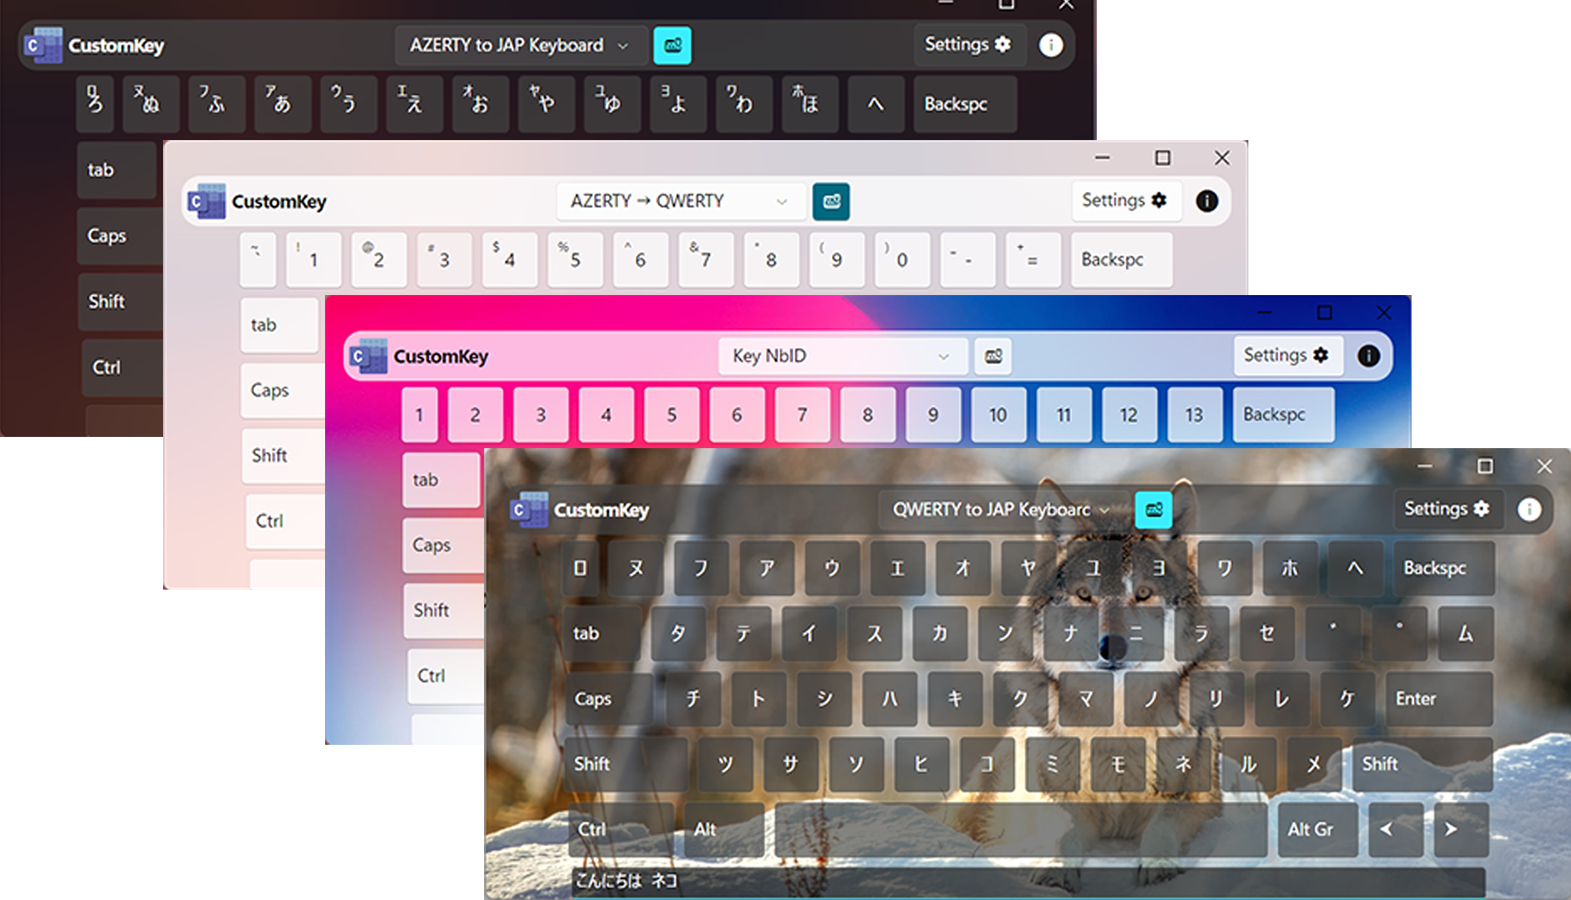
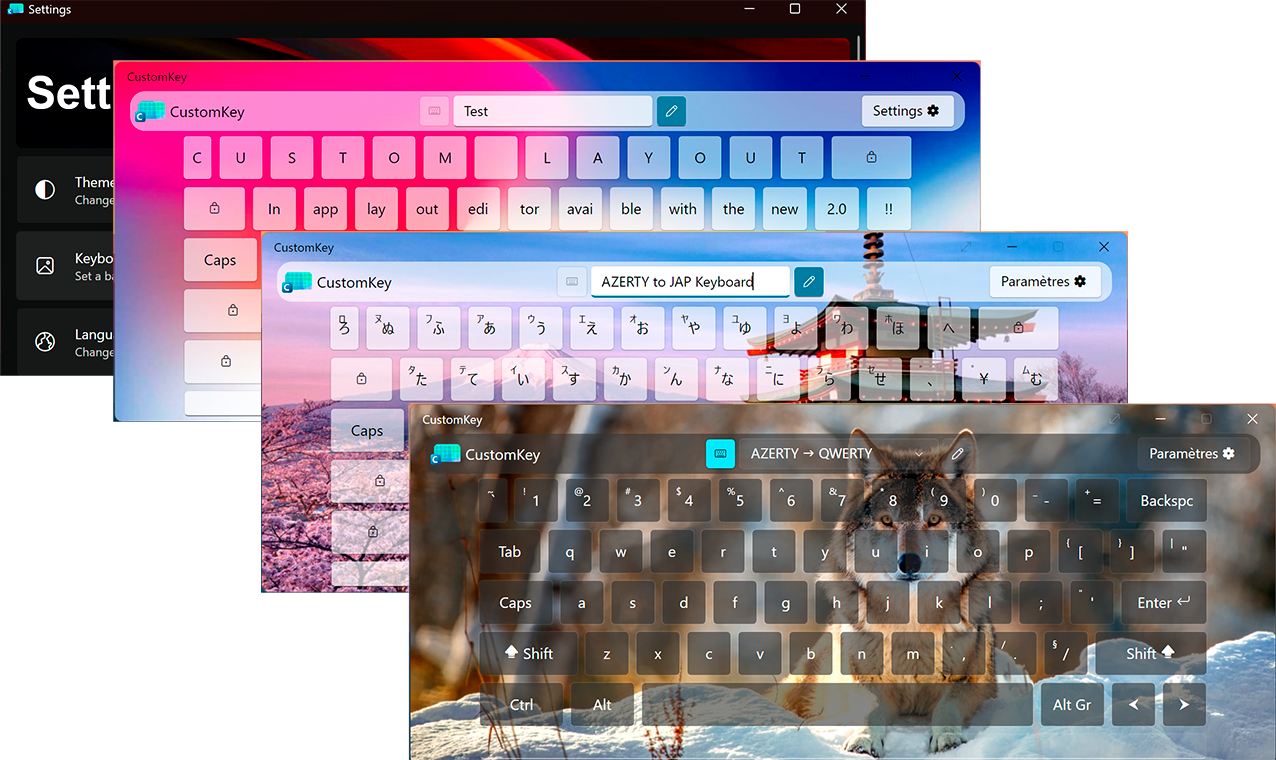
[2.0.0] In App editor is now fully functionnal + various bugfixes and improvements

diff --git a/src/CustomKey/Views/MainWindow.axaml.cs b/src/CustomKey/Views/MainWindow.axaml.cs
@@ -6,8 +6,11 @@ using Avalonia.Media.Imaging;
 using Avalonia.Platform;
 using System;
 using System.IO;
+using Avalonia;
+using Avalonia.Layout;
 using CustomKey.Common;
 using CustomKey.ViewModels;
+using FluentAvalonia.UI.Controls;
 
 namespace CustomKey.Views
 {
@@ -15,6 +18,7 @@ namespace CustomKey.Views
     {
         public static bool IsCapsLockActive;
         public static bool IsShiftPressed;
+        private bool _isCtrlAltPressed;
         private MainWindowViewModel _viewModel;
 
         public MainWindow()
@@ -34,7 +38,7 @@ namespace CustomKey.Views
             LoadBackgroundSettings();
             
             // Add click event to most of all Keyboard Buttons
-            for (int i = 1; i < 47; i++)
+            for (int i = 1; i <= 47; i++)
             {
                 var keyName = $"Key{i}";
                 var btn = this.FindControl<Button>(keyName);
@@ -74,8 +78,9 @@ namespace CustomKey.Views
 
             foreach (var (btn, normalText) in keys) btn.Content = _viewModel.IsEditMode ? "\uE72E" : normalText;
             
-            LayoutNameEditor.IsVisible = _viewModel.IsEditMode;
+            LayoutEditor.IsVisible = _viewModel.IsEditMode;
             LayoutsList.IsVisible = !_viewModel.IsEditMode;
+            InputState.IsEnabled = !_viewModel.IsEditMode;
         }
 
         public void CapsDown()
@@ -122,6 +127,11 @@ namespace CustomKey.Views
                     OutputBox.CaretIndex += 1;
                     break;
                 default:
+                    if (_viewModel.IsEditMode)
+                    {
+                        OpenEditDialog(btnName);
+                        break;
+                    }
                     var charToInsert = LayoutManager.GetChar(btnName);
                     InsertText(charToInsert);
                     break;
@@ -193,9 +203,9 @@ namespace CustomKey.Views
                      e.Key == Key.LeftAlt || e.Key == Key.RightAlt ||
                      e.Key == Key.LWin || e.Key == Key.RWin)
             {
-                App.IsCtrlAltPressed = true;
+                _isCtrlAltPressed = true;
             }
-            else if (Utility.IsInputEnabled && !App.IsCtrlAltPressed)
+            else if (Utility.IsInputEnabled && !_isCtrlAltPressed)
             {
                 string? vcKey = LayoutManager.ConvertToVcKey(e.Key.ToString());
 
@@ -236,7 +246,58 @@ namespace CustomKey.Views
                      e.Key == Key.LeftAlt || e.Key == Key.RightAlt ||
                      e.Key == Key.LWin || e.Key == Key.RWin)
             {
-                App.IsCtrlAltPressed = false;
+                _isCtrlAltPressed = false;
+            }
+        }
+        
+        private async void OpenEditDialog(string keyName)
+        {
+            var (currentChar, currentShift, currentId) = LayoutManager.KeyVal[keyName];
+
+            Button btnId = new Button { Content = currentId };
+            btnId.Click += (_, _) =>
+            {
+                this.KeyDown += OnDetectKey;
+                void OnDetectKey(object? s, KeyEventArgs e)
+                {
+                    this.KeyDown -= OnDetectKey;
+                    var vc = LayoutManager.ConvertToVcKey(e.Key.ToString());
+                    if (vc != null) btnId.Content = vc;
+                }
+            };
+
+            TextBox tbVal = new TextBox { Text = currentChar, Height = 32, TextWrapping = TextWrapping.NoWrap }; 
+            TextBox tbShift = new TextBox { Text = currentShift, Height = 32, TextWrapping = TextWrapping.NoWrap };
+            TextBlock lblId = new TextBlock { Text = "Key ID" };
+            TextBlock lblVal = new TextBlock { Text = "Value" };
+            TextBlock lblShift = new TextBlock { Text = "Caps Lock Value" };
+            CheckBox cbUpShift = new CheckBox { Content = $"Uppercase default when Caps Lock", IsChecked = currentShift == null };
+
+            Grid grid = new Grid
+            {
+                RowDefinitions = { new RowDefinition(GridLength.Auto), new RowDefinition(GridLength.Auto), new RowDefinition(GridLength.Auto) },
+                ColumnDefinitions = { new ColumnDefinition(GridLength.Star), new ColumnDefinition(GridLength.Star), new ColumnDefinition(GridLength.Star) },
+                HorizontalAlignment = HorizontalAlignment.Center, ColumnSpacing = 8
+            };
+
+            Grid.SetRow(lblId, 0); Grid.SetColumn(lblId, 0);
+            Grid.SetRow(lblVal, 0); Grid.SetColumn(lblVal, 1);
+            Grid.SetRow(lblShift, 0); Grid.SetColumn(lblShift, 2);
+            Grid.SetRow(btnId, 1); Grid.SetColumn(btnId, 0);
+            Grid.SetRow(tbVal, 1); Grid.SetColumn(tbVal, 1);
+            Grid.SetRow(tbShift, 1); Grid.SetColumn(tbShift, 2);
+            Grid.SetRow(cbUpShift, 2); Grid.SetColumn(cbUpShift, 2);
+
+            grid.Children.Add(lblId); grid.Children.Add(lblVal); grid.Children.Add(lblShift);
+            grid.Children.Add(btnId); grid.Children.Add(tbVal); grid.Children.Add(tbShift);
+            grid.Children.Add(cbUpShift);
+
+            FAContentDialog dialog = new FAContentDialog { Content = grid, PrimaryButtonText = "Save", CloseButtonText = "Cancel" };
+
+            if (await dialog.ShowAsync() == FAContentDialogResult.Primary)
+            {
+                LayoutManager.UpdateKey(keyName, tbVal.Text, cbUpShift.IsChecked == true ? null : tbShift.Text, btnId.Content?.ToString() ?? "");
+                _viewModel.NotifyKeyChanged();
             }
         }
     }

diff --git a/src/CustomKey/Common/LayoutManager.cs b/src/CustomKey/Common/LayoutManager.cs
@@ -10,10 +10,9 @@ namespace CustomKey.Common
         public static string? CurrentLayoutJson { get; private set; }
         private static readonly Dictionary<string, string> LayoutFileMap = new();
         
-        // Dictionnaire statique contenant les données du layout
+        // Dictionary with all current layout data
         public static Dictionary<string, (string keyChar, string shiftChar, string keyId)> KeyVal { get; private set; } = new();
         
-        // Retourne une liste des noms des layouts (propriété "Name" dans les fichiers JSON)
         public static Dictionary<string, string> GetLayouts()
         {
             string keyDir = Path.Combine(AppContext.BaseDirectory, "key");
@@ -76,10 +75,10 @@ namespace CustomKey.Common
                     rawDict?.TryGetValue($"Shift{i}_Char", out shiftVal);
                     rawDict?.TryGetValue($"{keyName}_ID", out idVal);
 
-                    // If no value : set to ASCII code "\r", which result to do a toUpperCase of the charVal when shift/caps is on
-                    // For exemple if you set Key1_Char to "m" and don't set Shift1_Char in the json when shift is enable it will show "M" and not "\r" or ""
+                    // If no value: shiftChar is null, which results in doing an uppercase of the charVal when shift/caps is on
+                    // For exemple if you set Key1_Char to "m" and don't set Shift1_Char in the json when shift is enable it will show "M"
                     // In order to don't do a ToUpperCase you should set a value to "" for Shift_Char in json layout
-                    KeyVal[keyName] = (charVal ?? "", shiftVal ?? "\r", idVal ?? "");
+                    KeyVal[keyName] = (charVal ?? "", shiftVal, idVal ?? "")!;
                 }
             }
             catch (Exception e)
@@ -116,7 +115,7 @@ namespace CustomKey.Common
 
             if (Utility.IsShift)
             {
-                if (keyInfo.shiftChar == "\r") return keyInfo.keyChar.ToUpper();
+                if (keyInfo.shiftChar == null) return keyInfo.keyChar.ToUpper();
                 return keyInfo.shiftChar;
             }
 
@@ -163,7 +162,7 @@ namespace CustomKey.Common
             LayoutFileMap[newName] = CurrentLayoutJson;
         }
         
-        public static void UpdateKey(string keyName, string keyChar, string shiftChar, string keyId)
+        public static void UpdateKey(string keyName, string keyChar, string? shiftChar, string keyId)
         {
             KeyVal[keyName] = (keyChar, shiftChar, keyId);
         }
@@ -187,7 +186,13 @@ namespace CustomKey.Common
                 }
             }
             
-            for (int i = 1; i <= 47; i++) dict[$"Shift{i}_Char"] = KeyVal.TryGetValue($"Key{i}", out var data) ? data.shiftChar : "";
+            for (int i = 1; i <= 47; i++)
+            {
+                if (KeyVal.TryGetValue($"Key{i}", out var data))
+                {
+                    if (data.shiftChar != null) dict[$"Shift{i}_Char"] = data.shiftChar;
+                }
+            }
 
             string filepath = Path.Combine(Path.Combine(AppContext.BaseDirectory, "key"), CurrentLayoutJson);
             var json = JsonSerializer.Serialize(dict, new JsonSerializerOptions { WriteIndented = true });

diff --git a/src/CustomKey/App.axaml.cs b/src/CustomKey/App.axaml.cs
@@ -15,11 +15,11 @@ namespace CustomKey
     public partial class App : Application
     {
         // Windows and macOS - Not use on Linux
-        private IEventSimulator _outputInjector = new EventSimulator();
-        private SimpleGlobalHook _hook = new();
+        private readonly EventSimulator _outputInjector = new();
+        private readonly SimpleGlobalHook _hook = new();
         // =================================
         private MainWindow? _mainWindow;
-        public static bool IsCtrlAltPressed;
+        private bool _isCtrlAltPressed;
 
         public override void Initialize()
         {
@@ -79,9 +79,9 @@ namespace CustomKey
                      e.Data.KeyCode == KeyCode.VcLeftAlt || e.Data.KeyCode == KeyCode.VcRightAlt ||
                      e.Data.KeyCode == KeyCode.VcLeftMeta || e.Data.KeyCode == KeyCode.VcRightMeta)
             {
-                IsCtrlAltPressed = true;
+                _isCtrlAltPressed = true;
             }
-            else if (Utility.IsInputEnabled && !IsCtrlAltPressed)
+            else if (Utility.IsInputEnabled && !_isCtrlAltPressed)
             {
                 foreach (var entry in LayoutManager.KeyVal)
                 {
@@ -117,7 +117,7 @@ namespace CustomKey
                      e.Data.KeyCode == KeyCode.VcLeftAlt || e.Data.KeyCode == KeyCode.VcRightAlt ||
                      e.Data.KeyCode == KeyCode.VcLeftMeta || e.Data.KeyCode == KeyCode.VcRightMeta)
             {
-                IsCtrlAltPressed = false;
+                _isCtrlAltPressed = false;
             }
         }
     }

diff --git a/src/CustomKey/Common/Utility.cs b/src/CustomKey/Common/Utility.cs
@@ -7,7 +7,6 @@ namespace CustomKey.Common
     public static class Utility
     {
         public static event Action? GlobalRefresh, EditModeChanged;
-        public static bool IsShiftPending;
         public static bool IsInputEnabled = true;
         
         public static string GetAssemblyVersion()
@@ -20,14 +19,15 @@ namespace CustomKey.Common
             return string.Join(".", versionParts.Take(3));
         }
         
+        private static bool _isShiftPending;
         public static bool IsShift
         {
-            get => IsShiftPending;
+            get => _isShiftPending;
             set
             {
-                if (IsShiftPending != value)
+                if (_isShiftPending != value)
                 {
-                    IsShiftPending = value;
+                    _isShiftPending = value;
                     GlobalRefresh?.Invoke();
                 }
             }

diff --git a/src/CustomKey/ViewModels/MainWindowViewModel.cs b/src/CustomKey/ViewModels/MainWindowViewModel.cs
@@ -39,7 +39,7 @@ namespace CustomKey.ViewModels
         public bool IsInputOn
         {
             get => _isInputOn;
-            private set
+            set
             {
                 _isInputOn = value;
                 Utility.IsInputEnabled = value;
@@ -92,6 +92,11 @@ namespace CustomKey.ViewModels
             SelectedLayoutIndex = index;
 
             OnPropertyChanged(string.Empty);
+        }
+        
+        public void NotifyKeyChanged()
+        {
+            OnPropertyChanged("Item");
         }
 
         public string VersionNumber => "Version " + Utility.GetAssemblyVersion();

diff --git a/src/CustomKey.Tests/Common/LayoutManagerTest.cs b/src/CustomKey.Tests/Common/LayoutManagerTest.cs
@@ -49,7 +49,7 @@ namespace CustomKey.Tests.Common
         [Test]
         public void GetChar_Uppercase_If_ShiftChar_Is_ReturnCode()
         {
-            LayoutManager.KeyVal["Key1"] = ("b", "\r", "id1");
+            LayoutManager.KeyVal["Key1"] = ("b", null, "id1");
             Utility.IsShift = true;
 
             string result = LayoutManager.GetChar("Key1");

diff --git a/src/CustomKey.Tests/Common/UtilityTest.cs b/src/CustomKey.Tests/Common/UtilityTest.cs
@@ -12,7 +12,7 @@ namespace CustomKey.Tests.Common
         public void Setup()
         {
             // Reset state before each test
-            Utility.IsShiftPending = false;
+            Utility.IsShift = false;
             Utility.IsInputEnabled = true;
             _eventTriggered = false;
         }

diff --git a/README.md b/README.md
@@ -17,10 +17,10 @@ CustomKey is a customizable keyboard, written in C# for Windows, macOS and Linux
 <img src="https://github.com/leo-t-88/customkey/blob/main/captures.png" alt="Captures">
 
 ### Features
-- Load Custom keyboard layout (saved in json format)
+- Load and create your own custom keyboard layout (saved in json format)
 - Global hook which allows you to enter custom characters in any application (For Windows and macOS only)
 - Enable or disable input modified by the custom keyboard if you wish to use your default keyboard.
-- Visual keyboard (with touch support) with basic Dark and light color theme and image backgrounds
+- Visual keyboard (with touch support) with basic dark and light color theme and image backgrounds
 - The application interface is functional for all these languages are available : *Chinese (Simplified), German, Spanish, English, French, Italian, Japanese, Russian*
 
 *View and Download the [latest version here](https://github.com/leo-t-88/customkey/releases/latest)*